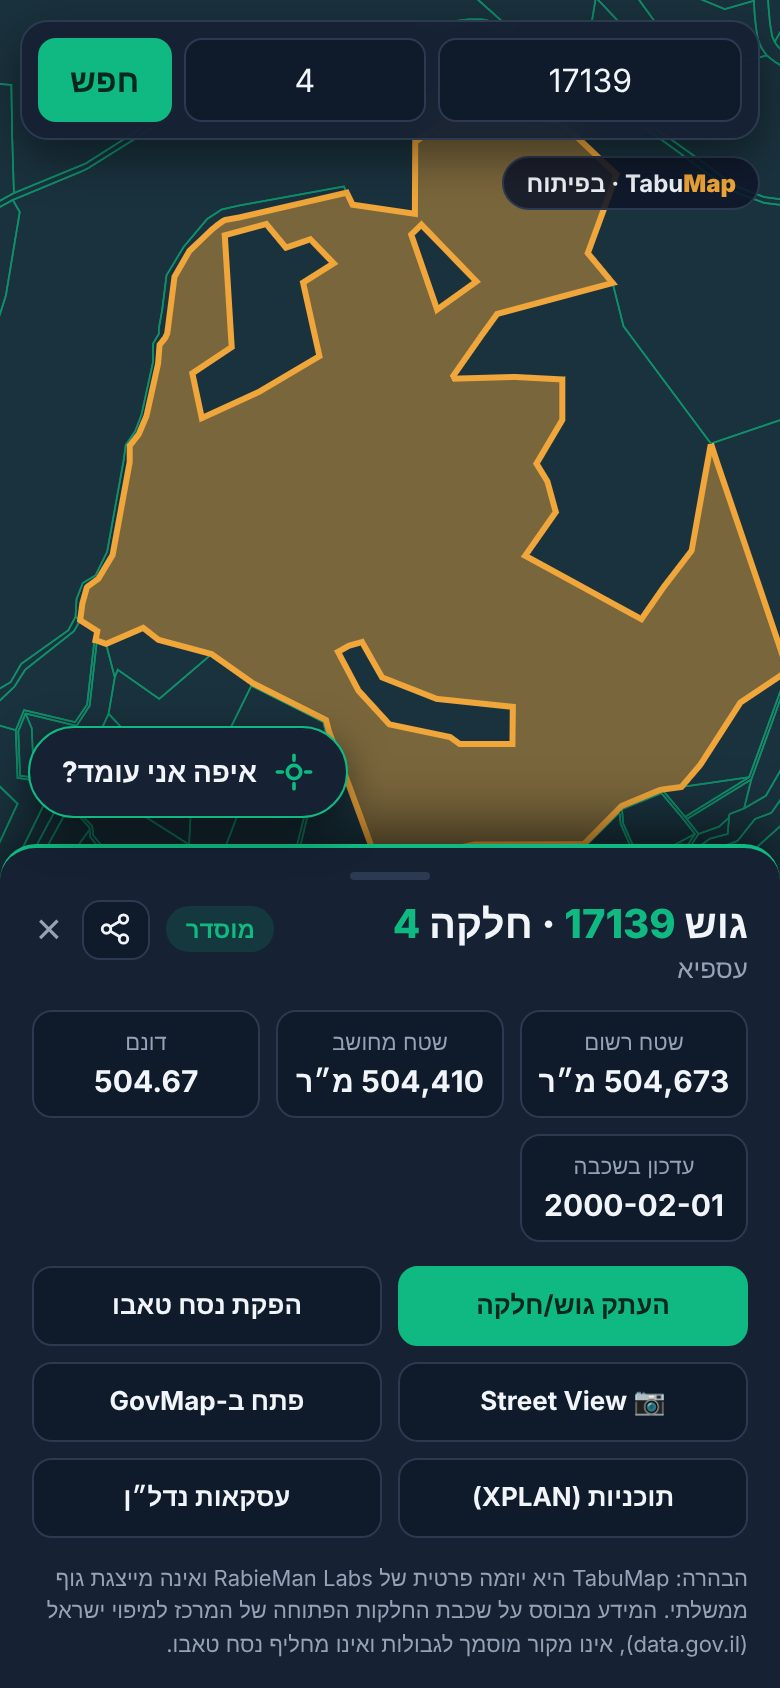
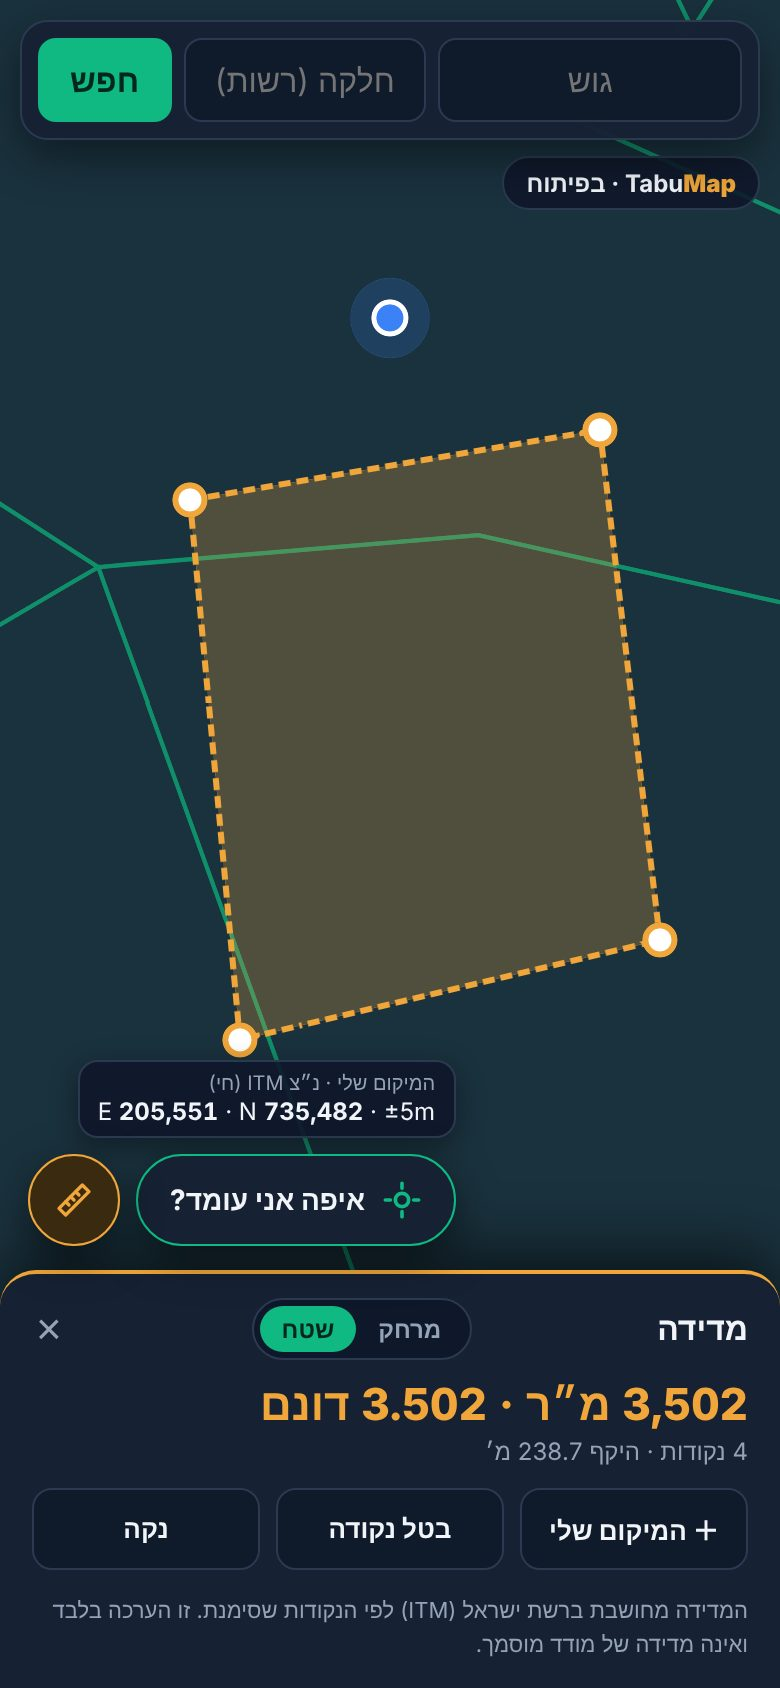
TabuMap card: Israeli Grid (ITM) and distance/area measurement bullet (he/ar/en), measurement screenshot
Claude-Session: https://claude.ai/code/session_01VLMtTQgPnMJgmWQRScFxBP

diff --git a/index.html b/index.html
@@ -177,13 +177,13 @@ html[lang="he"] [data-l]:not([data-l="he"]),html[lang="en"] [data-l]:not([data-l
   <p data-l="he">על איזו חלקה אתם עומדים? גוש וחלקה בשטח, לפי GPS.</p>
   <p data-l="ar">على أي قسيمة تقف؟ الحوض والقسيمة في الميدان، حسب الـ GPS.</p>
   <p data-l="en">Which parcel are you standing on? Land block and parcel in the field, by GPS.</p>
-  <ul data-l="he"><li>איתור גוש וחלקה לפי מיקום GPS, עם התראה כשאתם ליד גבול</li><li>חיפוש לפי גוש וחלקה וגבולות המגרשים על המפה</li><li>שטח רשום מול שטח מחושב, וקישורים להפקת נסח טאבו ול-GovMap</li><li>Street View בלחיצה – לראות את המגרש מהרחוב</li><li>בהמשך: תוכניות בנייה ומפענח נסחי טאבו בשפה פשוטה</li></ul>
-  <ul data-l="ar"><li>تحديد الحوض والقسيمة حسب موقع الـ GPS، مع تنبيه عند الاقتراب من الحدود</li><li>البحث حسب الحوض والقسيمة وحدود القسائم على الخارطة</li><li>المساحة المسجلة مقابل المحسوبة، وروابط لاستخراج سند الطابو وGovMap</li><li>Street View بنقرة واحدة – رؤية القسيمة من الشارع</li><li>قريباً: الخرائط الهيكلية ومحلل لسندات الطابو بلغة بسيطة</li></ul>
-  <ul data-l="en"><li>Find the block and parcel from your GPS position, with a warning near boundaries</li><li>Block and parcel search with parcel boundaries on the map</li><li>Registered vs. measured area, with links to the land registry extract and GovMap</li><li>One-tap Street View – see the lot from the street</li><li>Coming next: zoning plans and a plain-language Tabu extract analyzer</li></ul>
+  <ul data-l="he"><li>איתור גוש וחלקה לפי מיקום GPS, עם התראה כשאתם ליד גבול</li><li>חיפוש לפי גוש וחלקה וגבולות המגרשים על המפה</li><li>שטח רשום מול שטח מחושב, וקישורים להפקת נסח טאבו ול-GovMap</li><li>Street View בלחיצה – לראות את המגרש מהרחוב</li><li>נ״צ רשת ישראל (ITM) בזמן אמת, ומדידת מרחק ושטח בדונם על גבי המפה</li><li>בהמשך: תוכניות בנייה ומפענח נסחי טאבו בשפה פשוטה</li></ul>
+  <ul data-l="ar"><li>تحديد الحوض والقسيمة حسب موقع الـ GPS، مع تنبيه عند الاقتراب من الحدود</li><li>البحث حسب الحوض والقسيمة وحدود القسائم على الخارطة</li><li>المساحة المسجلة مقابل المحسوبة، وروابط لاستخراج سند الطابو وGovMap</li><li>Street View بنقرة واحدة – رؤية القسيمة من الشارع</li><li>إحداثيات الشبكة الإسرائيلية (ITM) مباشرةً، وقياس المسافة والمساحة بالدونم على الخارطة</li><li>قريباً: الخرائط الهيكلية ومحلل لسندات الطابو بلغة بسيطة</li></ul>
+  <ul data-l="en"><li>Find the block and parcel from your GPS position, with a warning near boundaries</li><li>Block and parcel search with parcel boundaries on the map</li><li>Registered vs. measured area, with links to the land registry extract and GovMap</li><li>One-tap Street View – see the lot from the street</li><li>Live Israeli Grid (ITM) coordinates, plus distance and area measurement in dunams on the map</li><li>Coming next: zoning plans and a plain-language Tabu extract analyzer</li></ul>
   <a class="btn" href="https://rabieman.github.io/tabumap-site/"><span data-l="he">לאתר האפליקציה</span><span data-l="ar">موقع التطبيق</span><span data-l="en">App website</span></a>
   <a class="btn ghost" href="https://rabieman.github.io/tabumap-site/privacy.html"><span data-l="he">פרטיות</span><span data-l="ar">الخصوصية</span><span data-l="en">Privacy</span></a>
  </div>
- <img class="shot" src="img/tabumap-shot.jpg?v=2" alt="TabuMap">
+ <img class="shot" src="img/tabumap-shot.jpg?v=3" alt="TabuMap">
 </article>
 
 <h2 data-l="he">יצירת קשר</h2>
